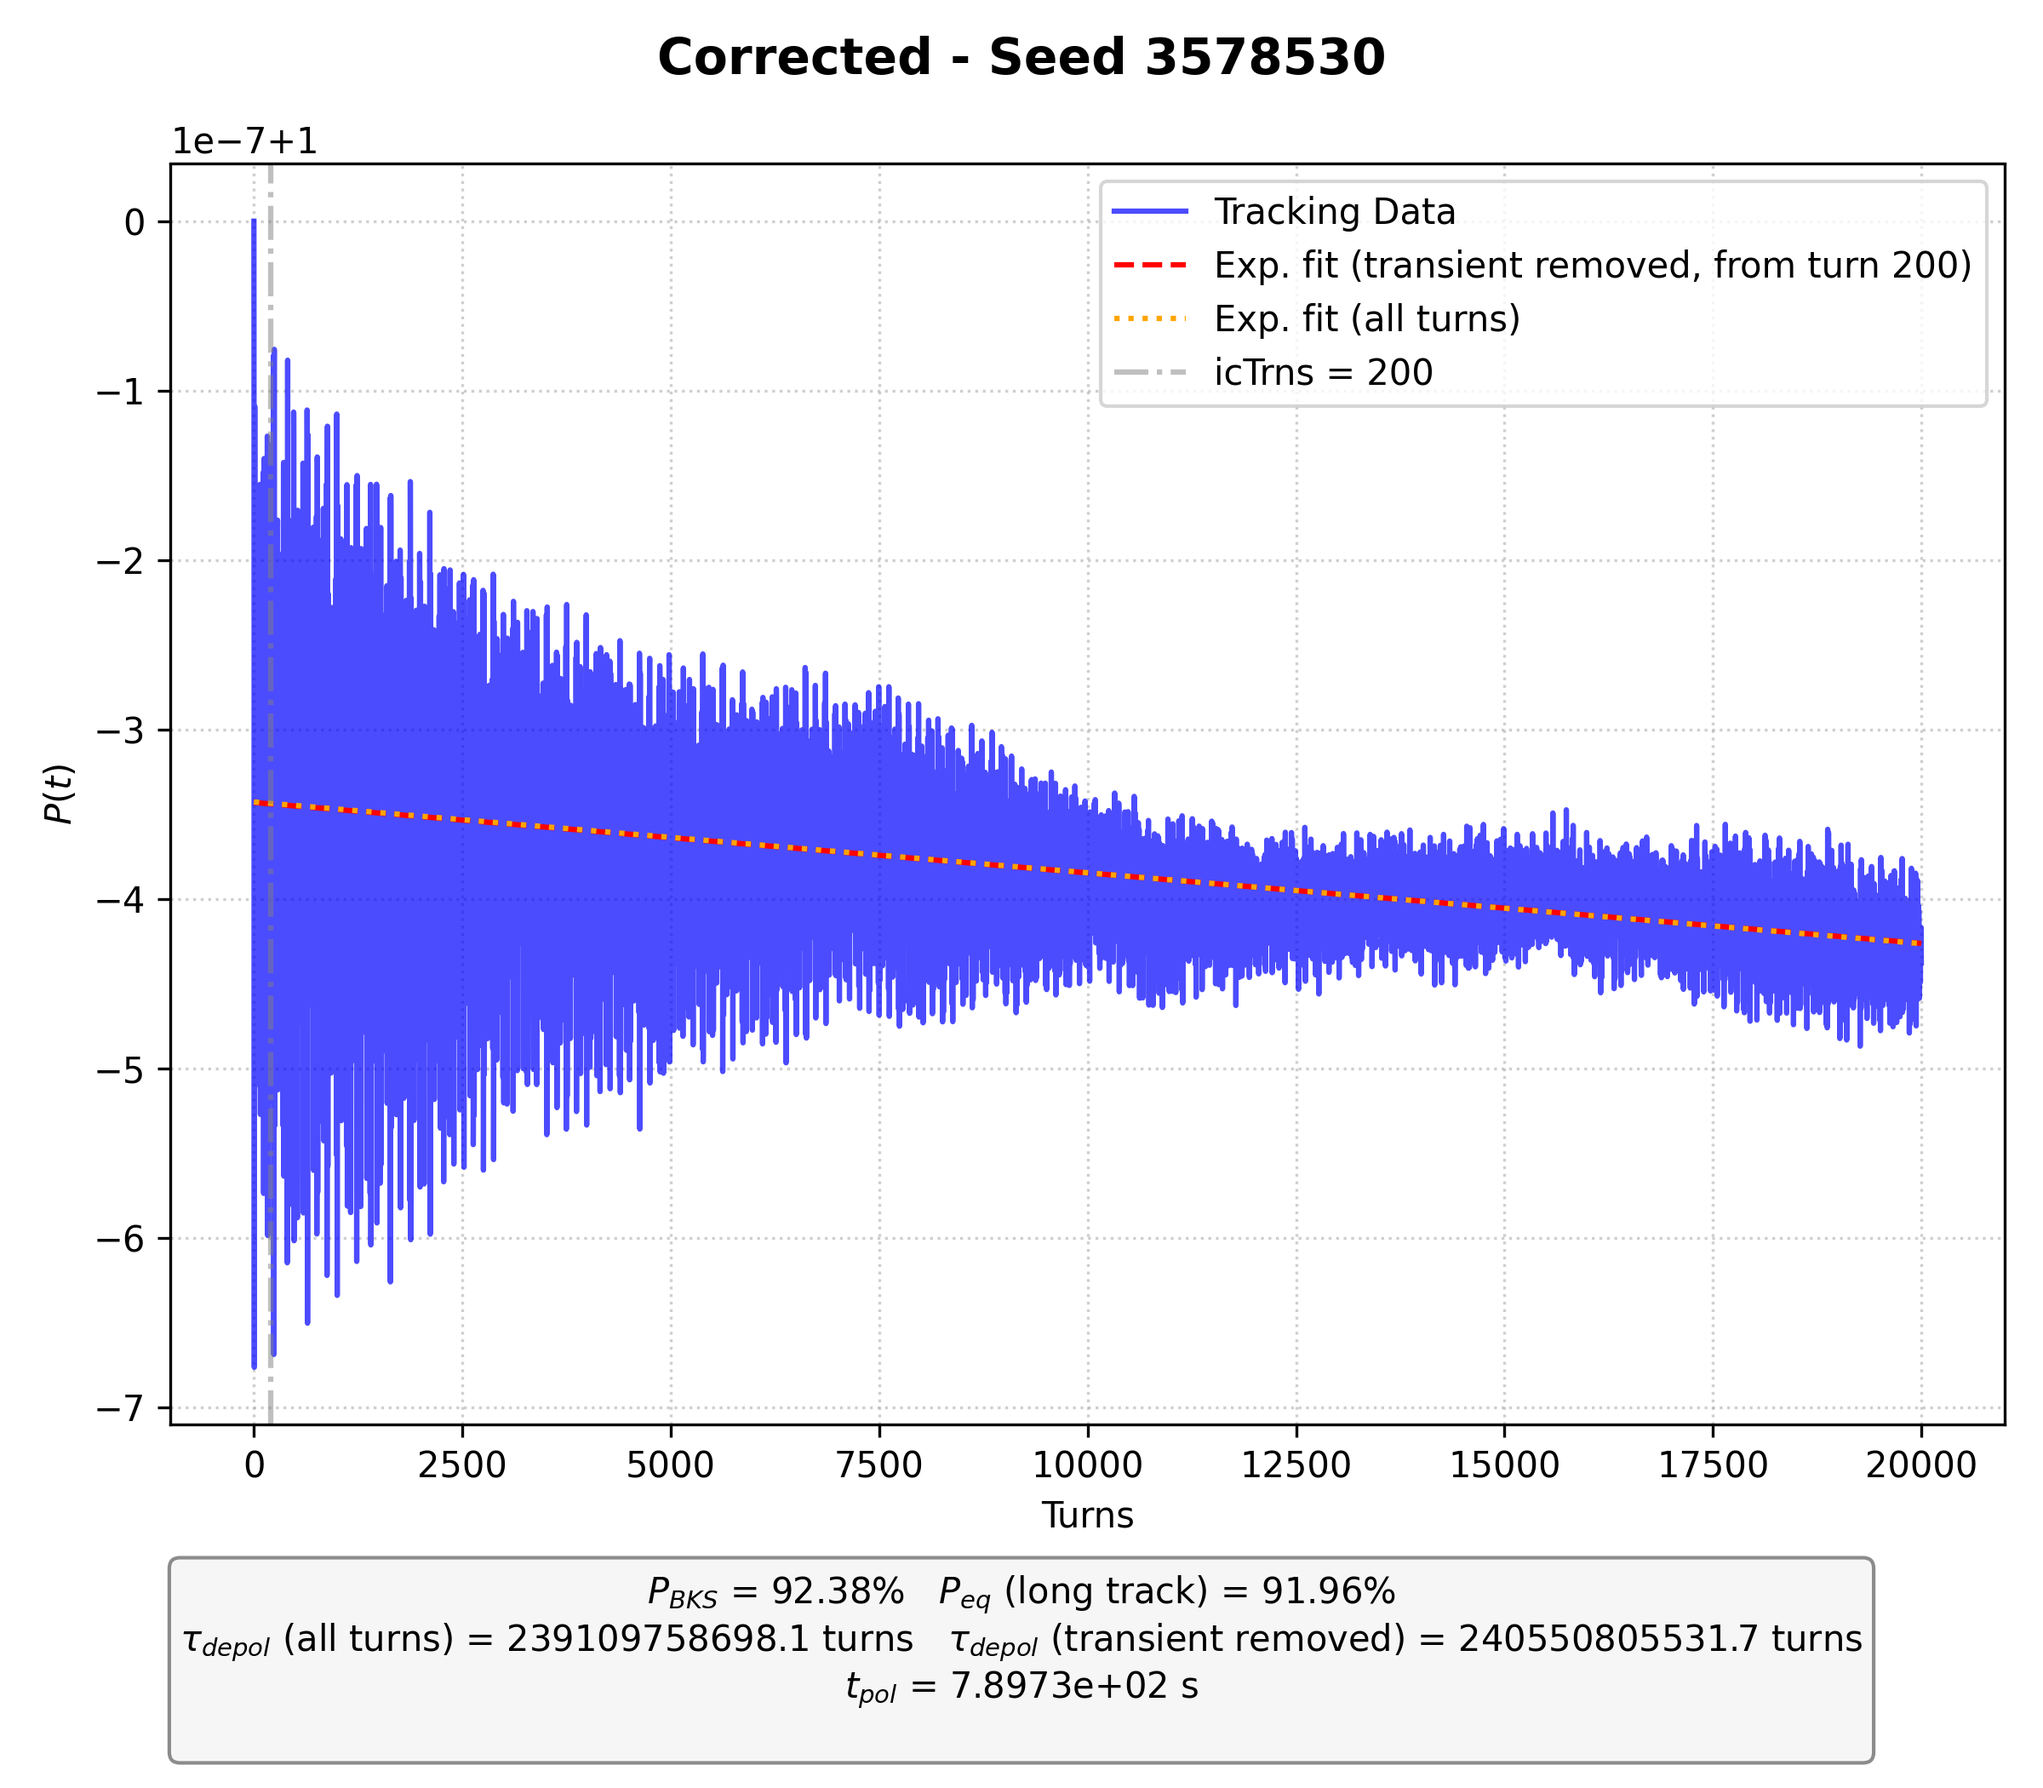
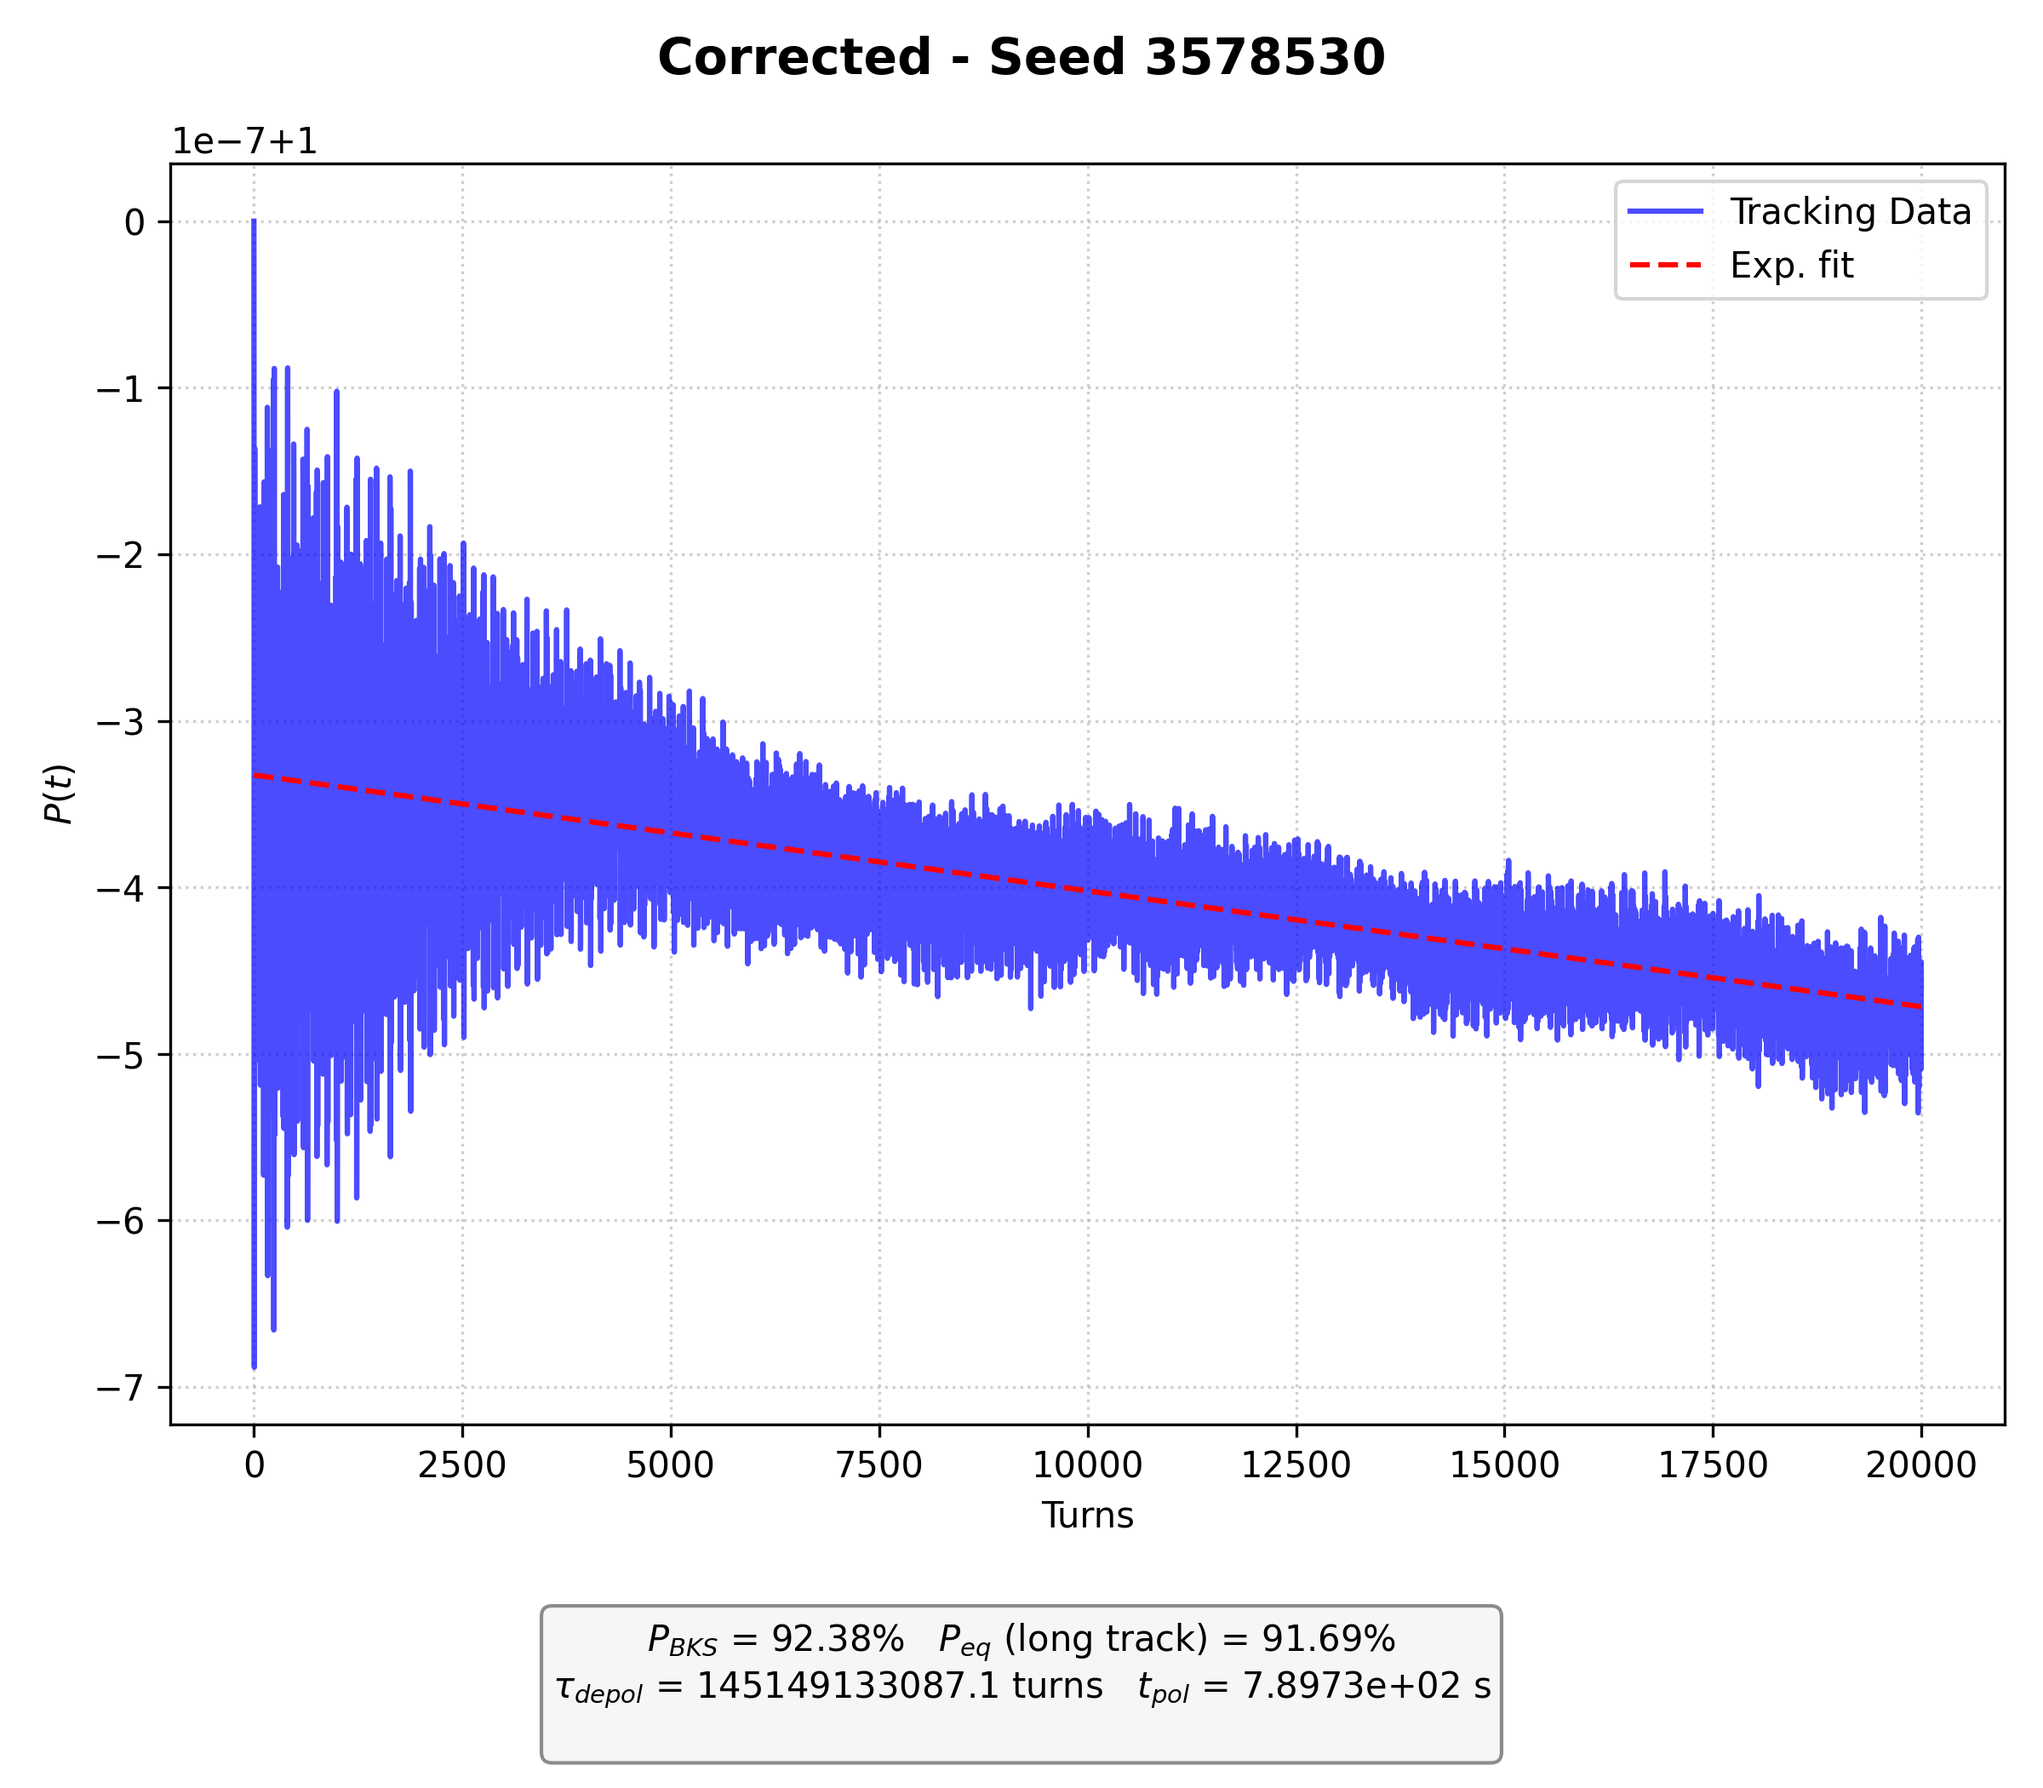
updates

diff --git a/spin_tracking_single_seed.py b/spin_tracking_single_seed.py
@@ -193,12 +193,9 @@ def plot_seed_with_textbox(data, title_prefix, out_path):
 
     ax.plot(data['turns'], data['pol'], label='Tracking Data', color='blue', alpha=0.7)
     ax.plot(data['turns'], data['fit'], color='red', linestyle='--',
-            label=f"Exp. fit (transient removed, from turn {data['icTrns']})")
-    if 'fit_all' in data:
-        ax.plot(data['turns'], data['fit_all'], color='orange', linestyle=':',
-                label='Exp. fit (all turns)')
-    ax.axvline(data['icTrns'], color='gray', linestyle='-.', alpha=0.5,
-               label=f"icTrns = {data['icTrns']}")
+            label=f"Exp. fit")
+  
+
     ax.set_ylabel('$P(t)$')
     ax.set_xlabel('Turns')
     ax.grid(True, linestyle=':', alpha=0.6)
@@ -207,8 +204,8 @@ def plot_seed_with_textbox(data, title_prefix, out_path):
     info_text = (
         f"$P_{{BKS}}$ = {data['p_bks']:.2f}%   "
         f"$P_{{eq}}$ (long track) = {data['p_eq_long']:.2f}%\n"
-        f"$\\tau_{{depol}}$ (all turns) = {data['t_dep_turns_all']:.1f} turns   "
-        f"$\\tau_{{depol}}$ (transient removed) = {data['t_dep_turns_long']:.1f} turns\n"
+        f"$\\tau_{{depol}}$ = {data['t_dep_turns_all']:.1f} turns   "
+        
         f"$t_{{pol}}$ = {data['t_pol']:.4e} s\n"
     )
     fig.text(0.5, 0.02, info_text, ha='center', va='bottom', fontsize=10,
